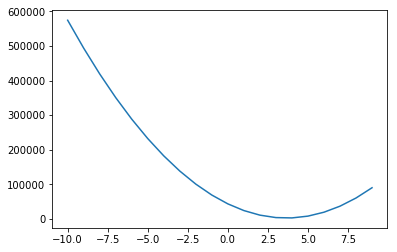
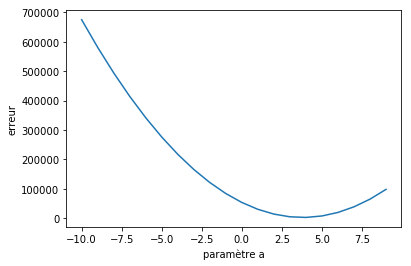
typo antidote

diff --git a/content/gradient_descendant.md b/content/gradient_descendant.md
@@ -1,4 +1,4 @@
-Title: gradient descendant
+Title: L'algorithme de descente en gradient
 Slug: gradient_descendant
 Date: 2018-10-16 22:13:42
 Modified: 2018-10-16 22:13:42
@@ -8,13 +8,13 @@ Author: Sacha Schutz
 Status: Draft
 
 
-Si vous commencez à faire de l'intelligence artificielle, vous avez surement du entendre parler de la méthode du gradient descendant. Il s'agit d'un algorithme permettant de trouver rapidement le minimum d'une fonction mathématique. Pour faire simple, trouver x tel que f(x) = 0. 
-Cette méthode est utilisé entre autre avec les réseaux de neurones. Mais avant d'en arriver là, nous allons tenter de comprendre cette algorithme en estimant les paramètres d'une droite dans un modèle de regression linéaire. 
+Si vous déjà commencer à étudier l'intelligence artificielle, vous avez certainement du entendre parler de la méthode de descente en gradient. Il s'agit d'un algorithme permettant de trouver rapidement le minimum d'une fonction mathématique. Pour faire simple, trouver x tel que f(x) = 0. 
+Cette méthode est très utilisée avec les réseaux de neurones. Mais avant d'en arriver là, nous allons tenter de comprendre cet algorithme en estimant le paramètre **a** d'une simple régression linéaire d'équation **y=ax**.
 
-## Une régression linéaire simple
+## Une modèle linéaire 
 
-J'ai ici généré 100 points aléatoires. Disons la taille en fonction du poids. Nous allons faire une regression linéaire et trouver l'équation de la droite passant au mieux par tous les points. Simple vous me dirait ? Effectivement, il existe une méthode analytique, c'est à dire une formule magique, permettant de trouver directement le param_tre a de l'équation y = ax. Il s'agit de la méthode des moindres carrée détaillé ici pour les plus curieux.  
-Sauf que cette fois et parce que la majorité des modèles statistiques ne disposent pas de solution analytque, nous allons estimer ces paramètres par une méthode algorithmique: La descente en gradient. 
+J'ai généré pour ce billet 100 points aléatoires (figure ci-dessous). Disons que ces points représentent la taille en fonction du poids. Nous voulons trouver l'équation de la droite passant au mieux par tous les points. Simple vous me direz ? Effectivement, il existe une méthode analytique, c'est-à-dire une formule magique, permettant de trouver directement le paramètre *a* de l'équation *y = ax*. Il s'agit de la méthode des moindres carrée détaillé ici pour les plus curieux.  
+Sauf que cette fois pour l'exemple et parce que la majorité des modèles statistiques ne disposent pas de solution analytique, nous allons estimer ces paramètres par une méthode algorithmique: La descente en gradient. 
 
 <div class="figure">
     <img src="../images/gradient_descendant/observation.png" />      
@@ -22,18 +22,18 @@ Sauf que cette fois et parce que la majorité des modèles statistiques ne dispo
 
 ## Une erreur à minimiser 
 
-La première étape consiste à définir une fonction "objectif" que l'on cherchera à minimiser. Dans notre cas, nous voulons minimiser l'écart entre les points et la droite de regression paramètré par "a". 
+La première étape consiste à définir une [fonction objectif](https://fr.wikipedia.org/wiki/Fonction_objectif) que l'on cherchera à minimiser. C'est à dire une fonction qui prendra en paramètre **a** et qui retournera une erreur. Dans notre cas, nous voulons minimiser l'écart entre les points et la droite de régression. 
 
 <div class="figure">
     <img src="../images/gradient_descendant/less_square.png" />      
-    <div class="legend">Nous voulons trouver le paramètre "a" qui minimise les distances ( en rouge ) entre les observations et la prédiction du modèle de regression liniéaire. Pour pouvons chercher "a" de façon que la sommes des écarts au carré soit minimum </div> </div>   
+    <div class="legend">Nous voulons trouver le paramètre "a" qui minimise les distances ( en rouge ) entre les observations et la prédiction du modèle de régression linéaire. Nous pouvons trouver "a" de façon que la somme de ces écarts au carré soit minimum </div> </div>   
 
-Pour cela, nous pouvons définir une fonction comme étant la somme des écarts au carré entre les valeurs observés (yi) et les valeurs calculés par la droite d'équation y=ax. 
-Cette fonction peut s'écrire de la façon suivante. 
+Cette fonction objective peut se définir comme étant la somme des écarts au carré entre les valeurs observés (yi) et les valeurs calculées par la droite d'équation y=ax. 
+Cette fonction s'écrit de la façon suivante. 
 
-- "a" le paramètre à estimer.
-- yi la valeur observé du point i 
-- axi la valeur prédite par la droite au point i
+- a, le paramètre à estimer de la droite de régression y=ax
+- y<sub>i</sub> , la valeur observée au point i 
+- ax<sub>i</sub> la valeur prédite par la droite au point i
 - n le nombre de points
 
 $$
@@ -42,33 +42,35 @@ $$
 
 
 
-En python cela s'écrit de la façon suivante : 
+En python cela peut s'écrire de la façon suivante : 
 
 ```python
+X = np.array([....]) // poids
+Y = np.array([....]) // taille
 
 def error(a):
-    yPred      = X * a 
-    yObserved  = Y 
-    size       = len(X)
+    y_pred      = X * a 
+    y_observed  = Y 
+    size        = len(X)
     
-    diff = sum((yPred - yObserved)**2)/size
+    diff = sum((y_pred - y_observed)**2)/size
     return diff
 
 ```
 
-De façon naîve, nous pourions tester toutes les valeurs du paramètre "et voir sur un graphique pour quel valeur l'erreur est minimum. A vu de nez ça tourne entre 3 et 5. 
+De façon naïve, nous pouvons tester toutes les valeurs du paramètre a, en faisant des pas de 1, et voir sur un graphique pour quelle valeur l'erreur est minimum. 
 
 <div class="figure">
     <img src="../images/gradient_descendant/naif.png" />      
-    <div class="legend">Taille en fonction du poids pour 100 observations</div> </div>   
+    <div class="legend">Fonction objective: L'erreur en fonction du paramètre a. L'erreur minimum se situe au alentour de 3</div> </div>   
 
-Dans la vrai vie, on ne peut pas s'amuser à tester toutes les valeurs possible. Si vous êtes par exemple avec un modèle à 20 paramètres, il y aurait beaucoup trop de combinaison à tester. C'est là qu'intervient la méthode de descente en gradient. 
+Dans la vraie vie, on ne va  pas pouvoir s'amuser à tester toutes les valeurs des paramètres possibles. Si vous êtes par exemple avec un modèle à 20 paramètres, il y aurait beaucoup, beaucoup trop de combinaison à tester. Et C'est là qu'intervient la méthode de descente en gradient. 
 
-## A petit pas jusqu'à l'arrivé
+## À petit pas jusqu'à l'arrivée
 
- La méthode de descente en gradient, consiste à prendre une valeur de "a" au hasard et la faire varier plus ou moin fortement par rapport à la pente de la fonction objective. Au lieu de tester toutes les valeurs de "a" avec des pas de 1, (-10, -9, -8, -7) on fait varier "a" avec des pas variable qui deviennent de plus en plus petit à mesure que l'on se rapproche de la bonne valeur de a. 
+ La méthode de descente en gradient consiste à prendre une valeur de "a" au hasard et la faire varier plus ou moins fortement par rapport à la pente de la fonction objective. Au lieu de tester toutes les valeurs de "a" avec des pas de 1, vous faites varier "a" avec des pas variables qui deviennent de plus en plus petits au fur et à mesure que l'on se rapproche du minimum.
 
-En cherchant dans vos souvenirs de lycée, cette pente c'est la dérivé encore appelé la dérivé partielle si vous travailler dans un espace multidimensionnel. Elle se calcul comme suite . ( rappelez vous que la dérivé de x^n c' nx^(n-1))
+En cherchant dans vos souvenirs de lycée, cette pente c'est la dérivé encore appelé dérivé partiel si vous travaillez avec plusieurs paramètres. Elle se calcule comme suite: 
 
 $$f(a) = \frac{1}{n}\sum_{i=0}^{n}(y_{i}-ax_{i})^{2} $$ 
 
@@ -85,7 +87,7 @@ $$ f'(a) = \frac{1}{n}\sum_{i=0}^{n}(-2y_{i}ax_{i} + a^{2}x_{i}^{2} ) $$
 $$ f'(a) = \frac{-2}{n}\sum_{i=0}^{n}(x_{i}(y_{i} - ax_{i})  $$ 
 
 
-En reprenant cette equation, nous pouvons écrire en python la fonction suivante calculant la dérivé au point a de la fonction objective: 
+En reprenant cette équation, nous pouvons écrire en python la fonction qui calcul la dérivé au point a: 
 
 ```python
 def derror(a):
@@ -93,15 +95,14 @@ size = len(X)
 return -2/size * sum(X * (Y - a * X))
 ```
 
-La figure ci-dessous, vous montre les valeurs des pentes pour différentes valeurs de "a" allant de -10 à 10. Comme vous pouvez le constater, plus nous nous rapprochons du minimum et plus la pente diminue. Elle est négatif à gauche et positif à droite. Pour trouver la bonne valeur de a, il suffit de faire varier a en suivant gradient. Si le gradient diminue, on augmente a, si il augmente on diminue a.
-
-
+La figure ci-dessous montre les valeurs des pentes pour différentes valeurs de "a" allant de -10 à 10. Comme vous pouvez le constater, plus nous nous rapprochons du minimum et plus la pente diminue. Elle est négative à gauche et positive à droite. Pour trouver la bonne valeur de a, il suffit de faire varier a en suivant gradient. Si le gradient diminue, on augmente a, s’il augmente on diminue a.
 
 <div class="figure">
     <img src="../images/gradient_descendant/derivate.png" />      
-    <div class="legend">Taille en fonction du poids pour 100 observations</div> </div>   
+    <div class="legend">différente pente pour différente valeur de a</div> </div>   
 
-La fonction suivante fait varier a en partant de -20 et en suivant le gradient jusqu'à ce que la pente soit quasi nul.( entre -0.5 et 0.5). Le paramètre taux, appelé taux d'apprentissage, permet d'ajuster la taille du pas. Si le taux d'apprentissage est grand, alors les pas seront plus petit, la précision du résultat sera bonne mais prendra plus de temps à atteindre. A l'inverse, un taux d'apprentissage petit sera moins précis mais plus rapide. 
+L'implémentation en python est alors triviale (ci-dessous). En partant de a=-20, on fait une boucle faisant varier a en fonction du gradient. Le paramètre taux, appelé taux d'apprentissage, permet d'ajuster la taille du pas. Si le taux d'apprentissage est grand, alors les pas seront plus petits, la précision du résultat sera bonne, mais mettra plus de temps à atteindre. À l'inverse, un taux d'apprentissage petit sera moins précis, mais plus rapide. 
+Lorsque le minimum est atteint, c'est à dire lorsque le gradient est nul ( entre -0.5 et 0.5), on s'arrête et on récupère la valeur de a calculé.
 
 ```python
 def gradient(a=-20, taux = 400000):
@@ -120,7 +121,7 @@ def gradient(a=-20, taux = 400000):
         print(a)
 ```
 
-L'animation ci-dessous illustre la descente en gradient calculé précédement qui trouve 3.8 comme valeur de a. En peut conclure que la Taille = Poid * 3.8.
+L'animation ci-dessous illustre cette descente en gradient qui s'équilibre autour de 3.8 comme valeur de a. Nous pouvons alors conclure que notre algorithme à estimer que la Taille = Poid * 3.8.
 
 <center>
 <video controls>
@@ -133,16 +134,16 @@ Your browser does not support the video tag.
 
 
 ## Conclusion 
-Nous avons vu un exemple de descente en gradient pour évaluer un seul paramètre dans un modèle de regression linéaire. Dans un modèle avec deux paramètre comme a et b de l'equation y = ax + b, la fonction d'erreur est une equation multiparamètrique de la forme f(a,b). Visuellement, il s'agit d'un surface en 3D ou vous allez faire varier les paramètres a et b à l'aide des dérivées partielle. 
+Nous avons vu un exemple de descente en gradient pour évaluer un seul paramètre dans un modèle de régression linéaire. Dans un modèle avec deux paramètres comme a et b de l'équation y = ax + b, la fonction d'erreur est une équation multiparamètrique de la forme f(a,b). Visuellement, il s'agit d'un surface en 3D ou vous allez faire varier les paramètres a et b à l'aide des dérivées partielles. 
 
 <div class="figure">
     <img src="../images/gradient_descendant/gradientDescent.jpg" />      
     <div class="legend">Descent en gradient pour 2 paramètres et une fonction objective</div> </div>   
 
 
-Dans les réseaux neuronaux, les modèles sont constitués d'autant de paramètres qu'il y a de neurones. Et pour faire ces descente de gradient, des libraries comment TensorFlow ou Pytorch ont vu le jour pour optimiser les calculs de façon parallèles.
+Dans les réseaux neuronaux, les modèles sont constitués d'autant de paramètres qu'il y a de neurones. Et pour faire ces descentes de gradient, des libraries comment TensorFlow ou Pytorch ont vu le jour pour optimiser les calculs de façon parallèles.
 
 
 
-Le notebook contenant l'ensemble du code est disponnible ici
+Le notebook contenant l'ensemble du code est disponible ici
 
